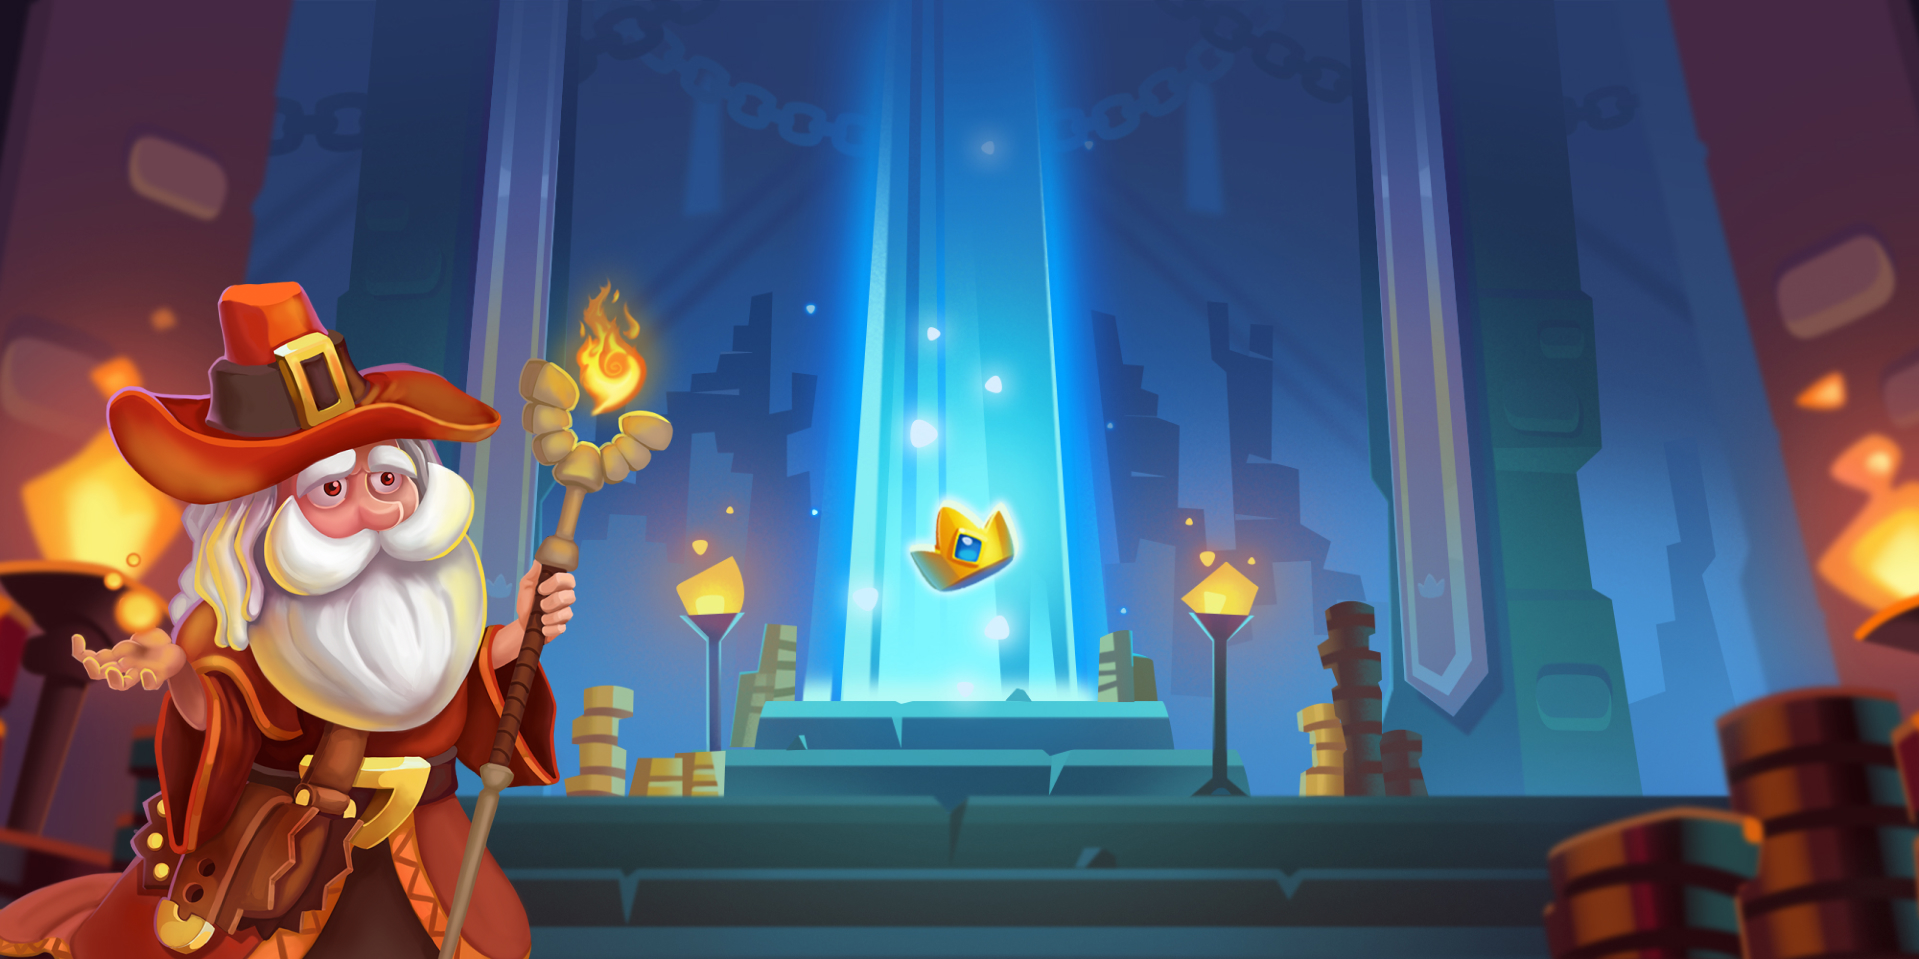
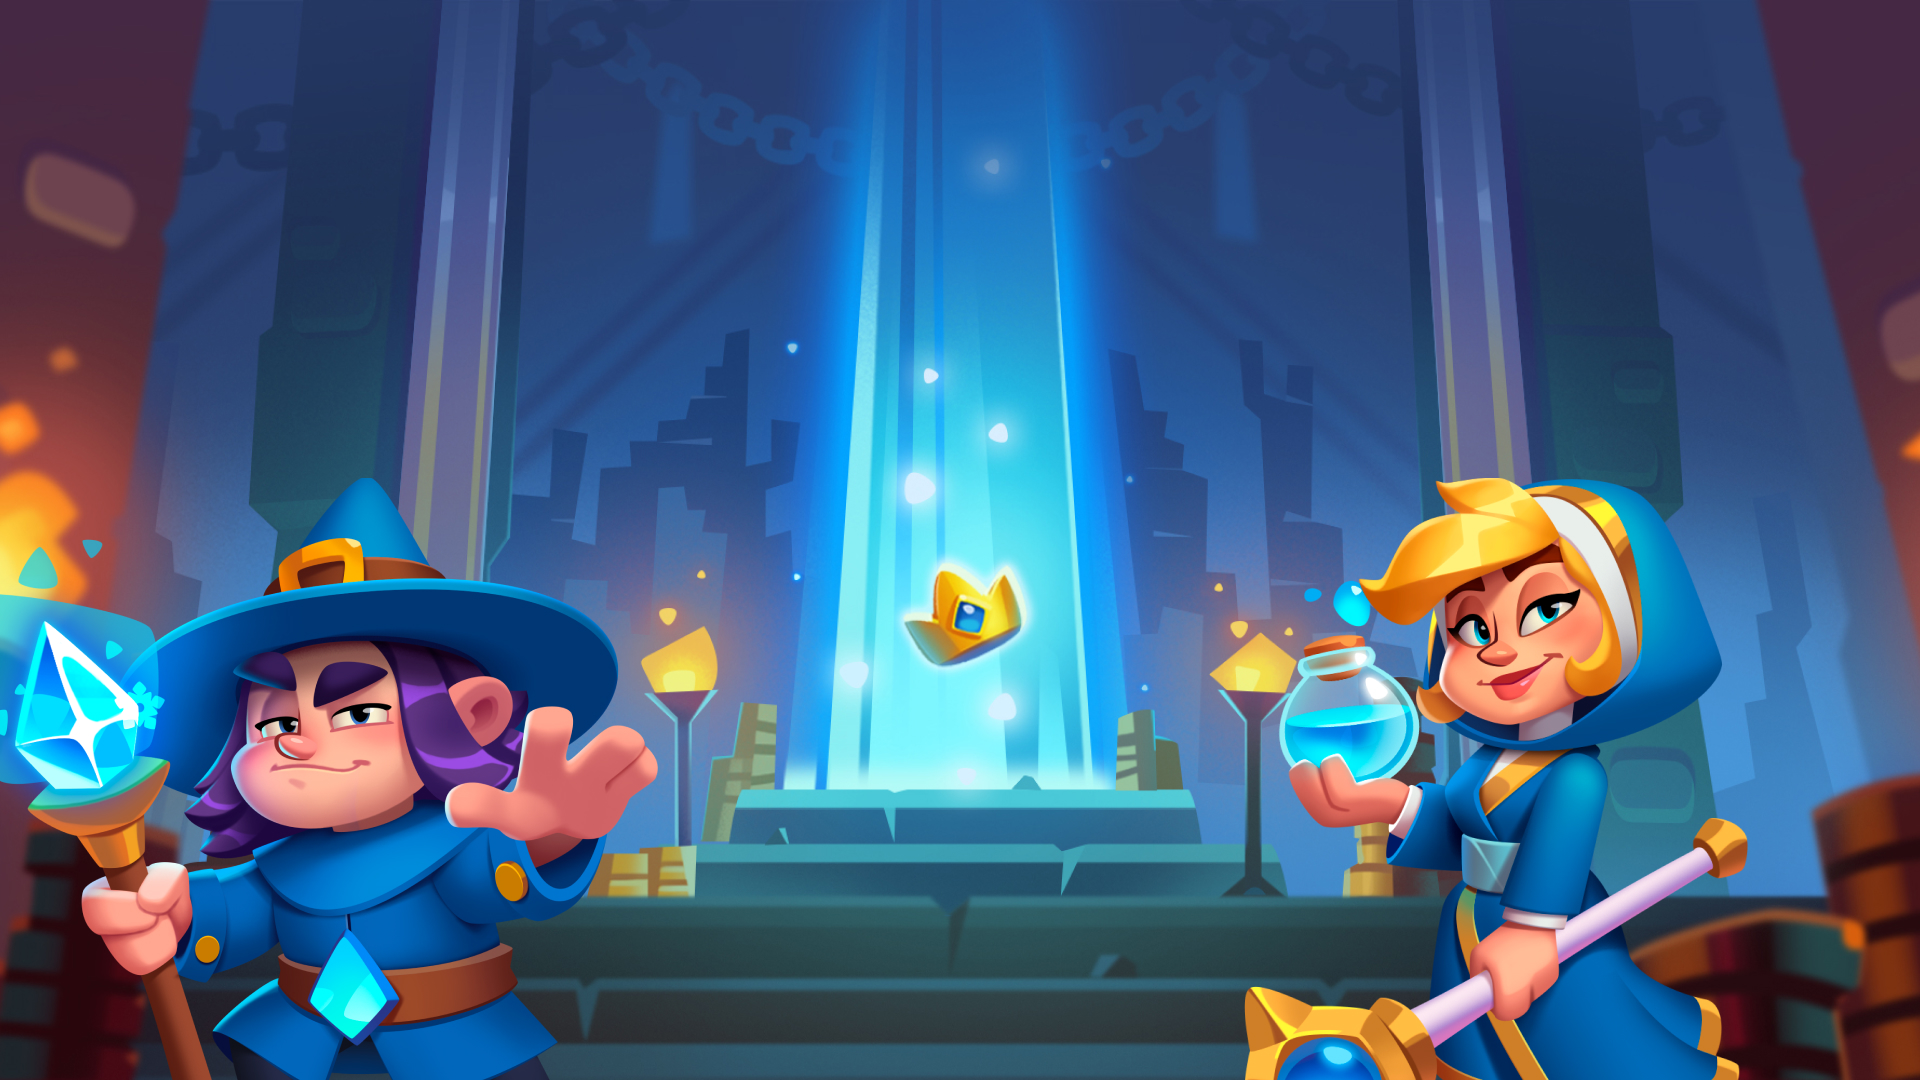
backgroud replace

diff --git a/src/pages/HomePage.vue b/src/pages/HomePage.vue
@@ -1,7 +1,7 @@
 <template>
   <div class="flex flex-col overflow-hidden">
     <div
-      class="logo-screen:h-full relative h-screen w-screen overflow-hidden bg-rush-royale bg-cover bg-center bg-no-repeat"
+      class="logo-screen:h-full relative h-screen w-screen overflow-hidden bg-rush-royale bg-cover bg-bottom bg-no-repeat"
     >
       <MyGamesLogo class="absolute right-[80px] top-[80px]" />
       <div class="flex h-full flex-col items-center justify-center py-16">
